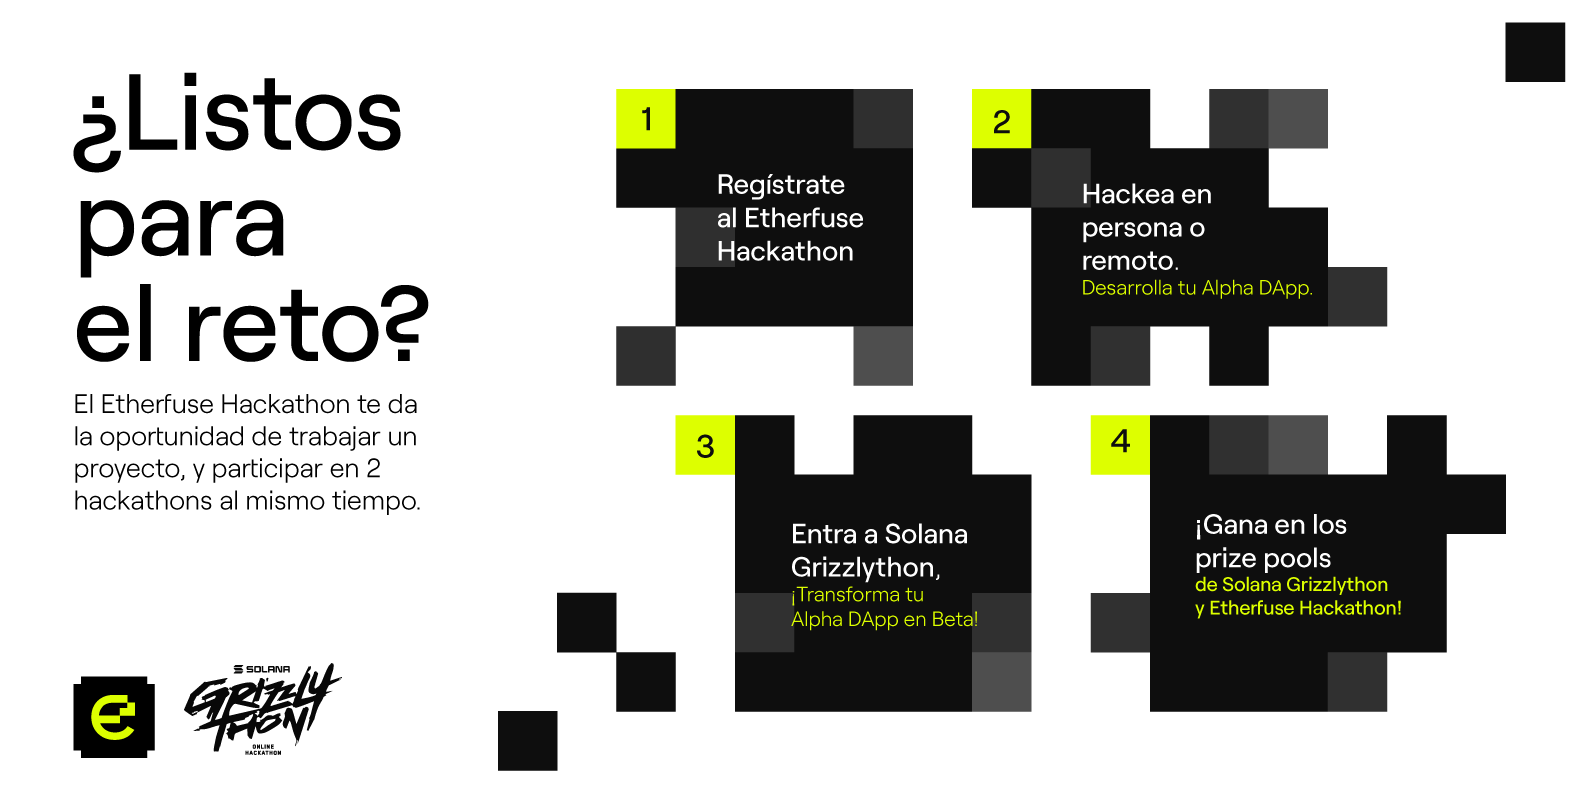
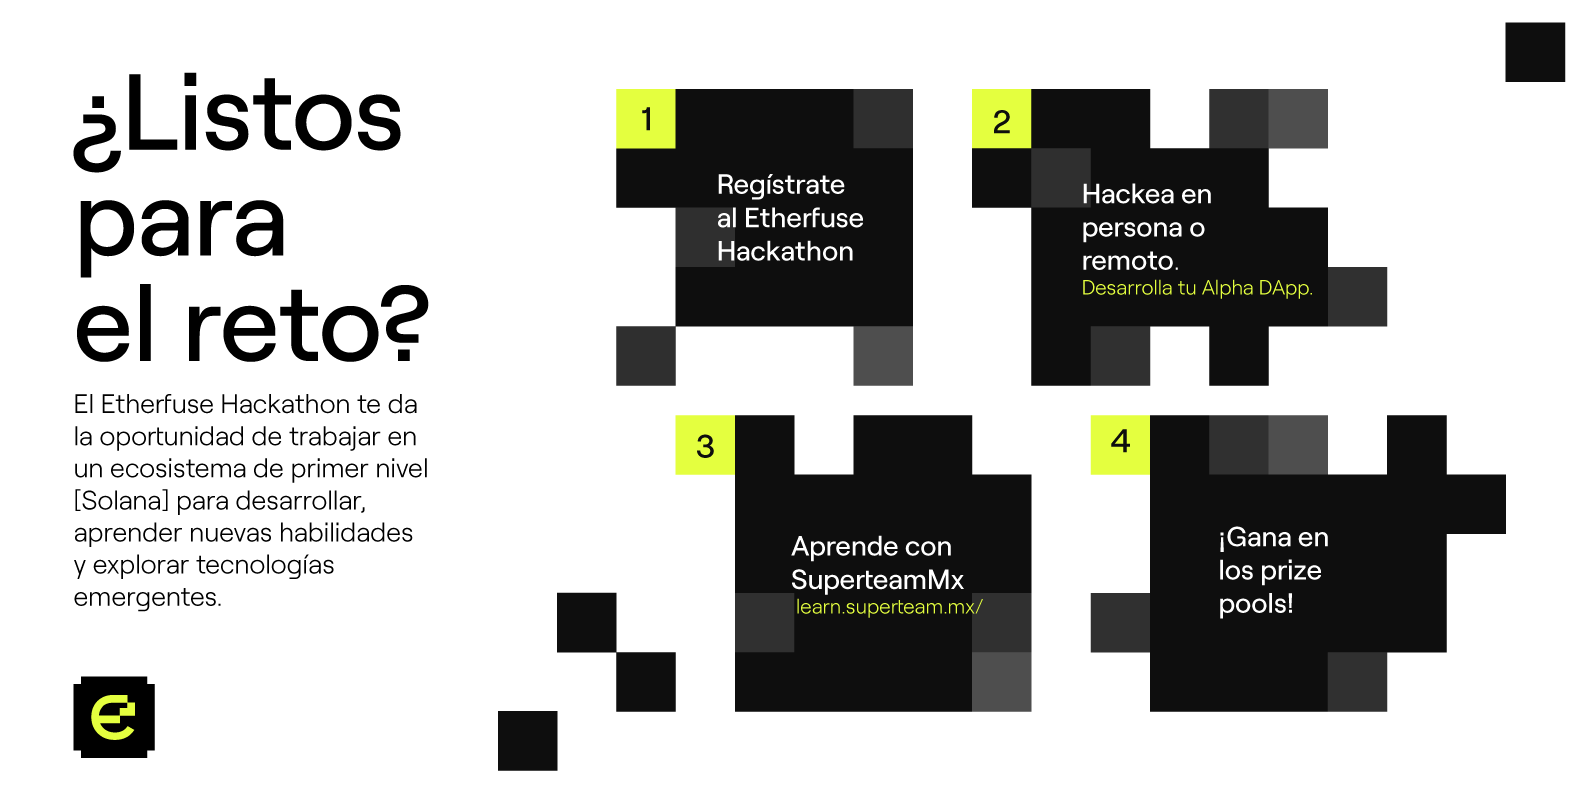
Ortography fixes

diff --git a/components/landing/Hero.jsx b/components/landing/Hero.jsx
@@ -29,7 +29,7 @@ export function Hero() {
         <div className="mx-auto max-w-2xl lg:max-w-4xl lg:px-12">
           <h1 className="font-display text-5xl font-bold tracking-tighter bg-black px-4 py-4 text-happy-yellow sm:text-7xl">
             <span className="sr-only">Etherfuse hackathon - </span>
-            El hackathon de solana blockchain para CDMX 🇲🇽
+            El hackathon de Solana blockchain para CDMX 🇲🇽
           </h1>
           <div className="mt-6  font-display text-2xl tracking-tight text-black">
             <p className="font-semibold">
@@ -41,7 +41,7 @@ export function Hero() {
             <div className="container space-y-6">
               <p>
                 Un fin de semana para colaborar, aprender y crear soluciones
-                digitales con solana blockchain. Además podrás conocer a
+                digitales con Solana blockchain. Además podrás conocer a
                 mentores nacionales e internacionales.
               </p>
             </div>

diff --git a/pages/faqs.js b/pages/faqs.js
@@ -30,7 +30,7 @@ const FaqsPage = () => {
                   Lo ideal es entender cómo funciona todo el tema de blockchain,
                   pero ve el fin de semana de hackathon cómo una oportunidad
                   para aprender nuevas cosas. Si no sabes nada de blockchain y
-                  solana, te preparamos una serie de recursos para que puedas
+                  Solana, te preparamos una serie de recursos para que puedas
                   iniciar en este mundo. Puedes consultarlos dando click{" "}
                   <a href="/resources" className="underline">
                     aquí

diff --git a/components/forms/ProjectForm.js b/components/forms/ProjectForm.js
@@ -299,7 +299,7 @@ const ProjectForm = ({ type = "new" }) => {
             <TextArea
               label="Describe en un tweet que hace tu proyecto"
               name="description"
-              placeholder="Ejemplo:  Plataforma, que permite hacer subastas de monedas de colección en línea utilizando la red de solana."
+              placeholder="Ejemplo:  Plataforma, que permite hacer subastas de monedas de colección en línea utilizando la red de Solana."
               register={{
                 ...register("description", {
                   minLength: {

diff --git a/components/landing/Schedule.jsx b/components/landing/Schedule.jsx
@@ -286,7 +286,7 @@ export function Schedule() {
       <Container className="relative z-10">
         <div className="mx-auto max-w-2xl lg:mx-0 lg:max-w-4xl lg:pr-24">
           <h2 className="font-display text-4xl font-medium tracking-tighter text-happy-yellow bg-black px-2 py-2 sm:text-5xl">
-            3 días de hackathon para crear soluciones digitales con solana
+            3 días de hackathon para crear soluciones digitales con Solana
             blockchain.
           </h2>
         </div>

diff --git a/components/events/RewardsComponent.js b/components/events/RewardsComponent.js
@@ -16,7 +16,7 @@ const RewardsComponent = () => {
                       🇲🇽 SuperTeamMX Bounties 💰
                     </h2>
                     <p className="italic">
-                      Participa en las recompensas que SuperTeamMX tiene para
+                      Participa en las recompensas que SuperteamMX tiene para
                       ti:
                     </p>
                   </div>
